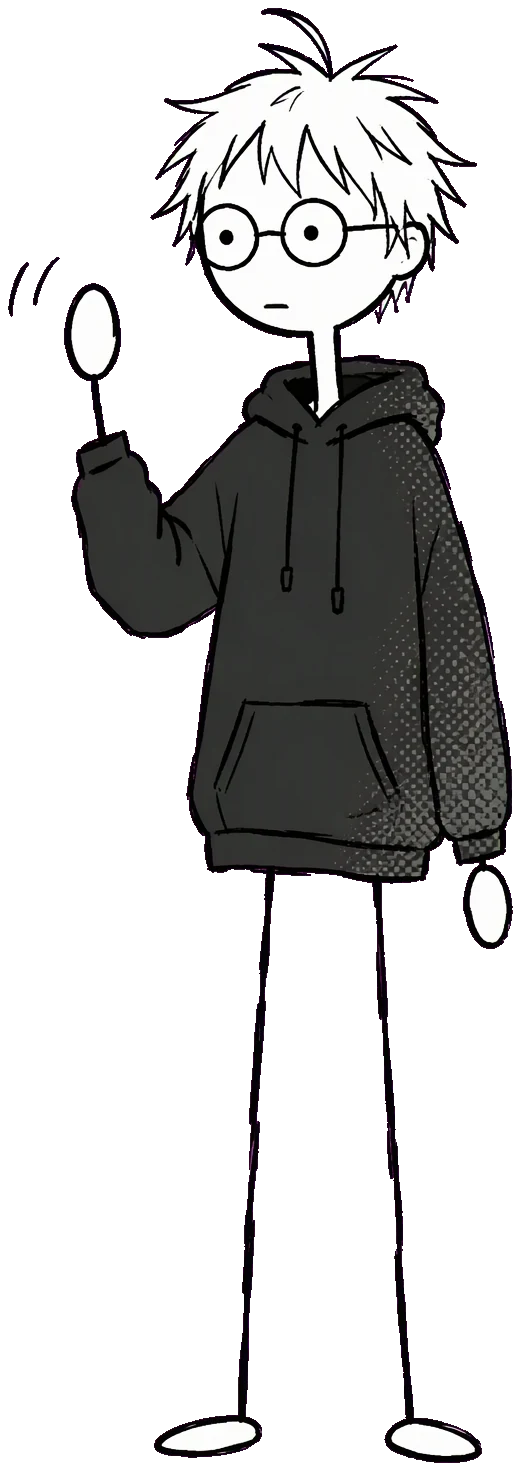
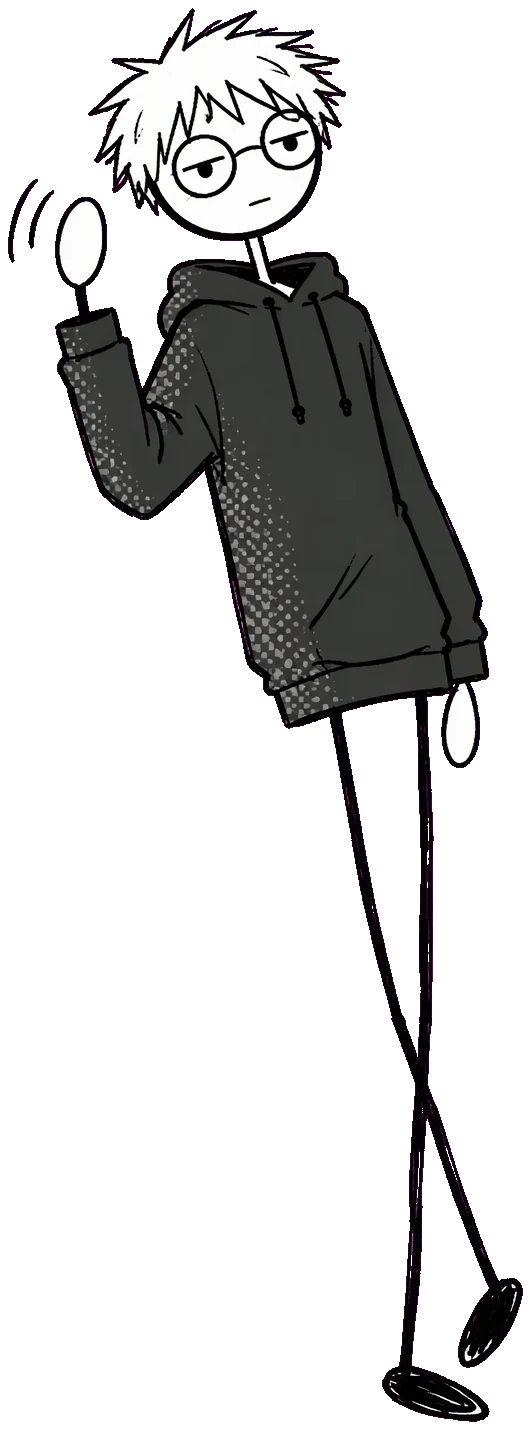
feat: 吉祥物改成参照站的姿势 —— 斜靠交叉腿 + 狗抬头望主人
人物重画为参照站那个姿态：整体后倾约 10 度像靠在字块上、脚踝交叉、
一手举起挥、一手垂着。白刺发与连帽衫保留，所以是他的姿势、不是他的角色。

狗重画成 8 帧新序，并把基础姿态从"正面看读者"改成"抬头深情看主人"：
0-2 抬头望人、3 正面、4 左侧脸、5-6 向右、7 低头。这带来一个参照站没有的
组合 —— 静止时它是那个暖心的姿势，你一动光标它才转头看你。跟随只用
4→2→3→5→6 五帧：1 与 0 几乎同形（横移看不出变化），7 是低头不是水平角，
映射到水平位置会显得抽风。

帧表从"左右对称线性插值"改成显式 SWEEP 数组，因为新图集的帧序本身不对称。
frameFor 在 Node 里直接验证：t=0/.25/.5/.75/1 → 4,2,3,5,6。

112 项测试与 11 项 check 全绿。

Changed region(s): [[0.0, 0.0, 0.9827, 1.0]]

diff --git a/src/js/mascot.js b/src/js/mascot.js
@@ -8,13 +8,14 @@
    火柴人，眼珠必须另外画、另外驱动；本站的人物脸上已经画好眼睛和眼镜，
    再叠两层就是两双眼睛。要上瞳孔跟随得先生成一张空脸版本。 */
 
-// 图集帧序（生成时按 4x2 网格的阅读顺序切片，见 .superpowers/build_mascot.py）：
-//   0 正面看向读者 | 1 略向左 | 2 三分之四向左 | 3 完全左侧脸
-//   4 略向右       | 5 三分之四向右 | 6 完全右侧脸 | 7 低头看左下
-// 7 号不参与跟随：它是「低头」而不是某个水平角，映射到水平位置会显得抽风。
-const FRONT = 0;
-const MAX_LEFT = 3;
-const RIGHT_SEQ = [0, 4, 5, 6];   // 正面 → 最右，必须走这条序，直接线性插值会跳过 4/5 的角度关系
+// 图集帧序（新Atlas：狗的基础姿态是【抬头深情看着主人】，不是正面）：
+//   0 抬头看主人（右上） 1 抬头看主人（左上） 2 抬头角度较缓 3 正面看向读者
+//   4 完全左侧脸         5 右侧四分之三      6 完全右侧脸     7 低头看地
+// 静止态用 0：那是这张图最暖的一帧，也是参照站那个姿势的意思。
+// 光标横扫只用 4→2→3→5→6 这五帧，1 和 7 不参与跟随：
+// 1 与 0 几乎同形（横移时看不出变化），7 是「低头」不是某个水平角，映射到水平位置会显得抽风。
+const IDLE = 0;
+const SWEEP = [4, 2, 3, 5, 6];
 const FRAMES = 8;
 
 export function initMascot() {
@@ -29,7 +30,7 @@ export function initMascot() {
   // reduced-motion 下不追踪，狗停在静止帧，页面依然完整可读。
   if (matchMedia('(prefers-reduced-motion: reduce)').matches) return;
 
-  let frame = FRONT;
+  let frame = IDLE;
   let raf = 0;
 
   const paint = () => {
@@ -53,14 +54,9 @@ export function initMascot() {
     set(frameFor(Math.min(1, Math.max(0, (e.clientX - r.left) / r.width))));
   });
 
-  hero.addEventListener('pointerleave', () => set(FRONT));
+  hero.addEventListener('pointerleave', () => set(IDLE));
 }
 
 export function frameFor(t) {
-  if (t < 0.5) {
-    // 0 → MAX_LEFT 线性，t=0 时最左、t=.5 时回到正面
-    return Math.round((0.5 - t) / 0.5 * MAX_LEFT);
-  }
-  const i = Math.round((t - 0.5) / 0.5 * (RIGHT_SEQ.length - 1));
-  return RIGHT_SEQ[Math.min(RIGHT_SEQ.length - 1, i)];
+  return SWEEP[Math.round(t * (SWEEP.length - 1))];
 }

diff --git a/src/styles/hero.css b/src/styles/hero.css
@@ -89,7 +89,7 @@
   to { opacity: 1; clip-path: inset(0); transform: translateY(0); }
 }
 
-.hero-mascot { position: relative; height: 100%; width: auto; aspect-ratio: 521 / 1471; display: block; }
+.hero-mascot { position: relative; height: 100%; width: auto; aspect-ratio: 531 / 1430; display: block; }
 
 .hero-person {
   position: absolute;
@@ -120,7 +120,7 @@
   top: 66%;
   left: 54%;
   width: 54%;
-  aspect-ratio: 207 / 300;
+  aspect-ratio: 216 / 300;
   display: block;
   background-image: url("/assets/images/hero-dog.webp");
   background-repeat: no-repeat;

diff --git a/src/styles/loader.css b/src/styles/loader.css
@@ -42,7 +42,7 @@
 /* mark 用狗的第 0 帧（正面看向读者）。复用已有图集而不是新做一张 logo：
    狗比人更适合当小方块图标，且暗色下自动跟着换 -dark 变体。 */
 .site-loader-mark {
-  width: 66px;
+  width: 69px;
   height: 96px;
   background-image: url("/assets/images/hero-dog.webp");
   background-repeat: no-repeat;
